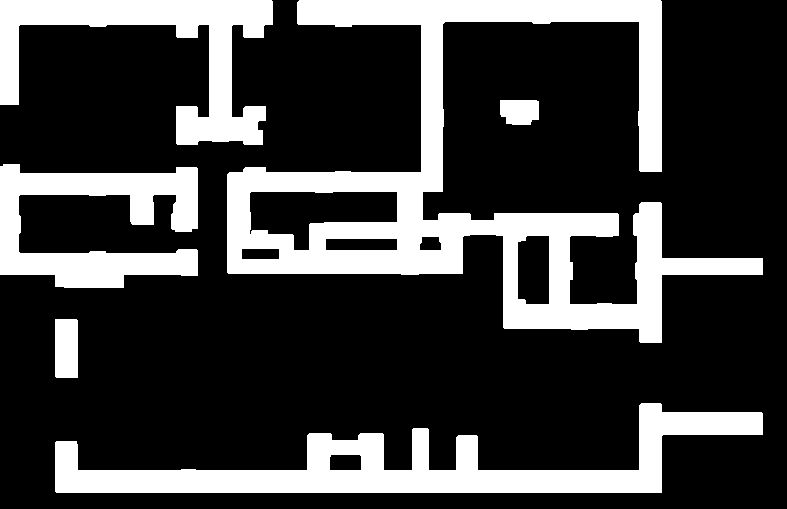
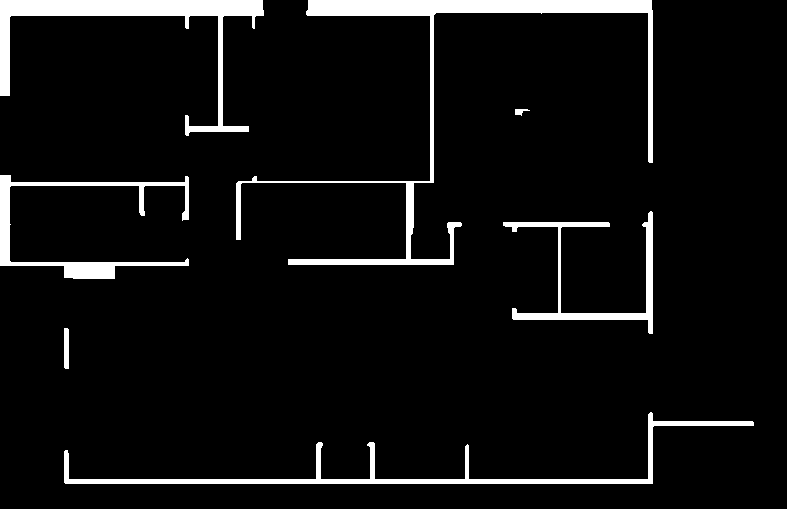
Updated to add vertex functionality

diff --git a/LineExtractor/Python/line.py b/LineExtractor/Python/line.py
@@ -2,6 +2,8 @@ import cv2
 import os
 import numpy as np
 import json
+import random
+import string
 
 # Get the current directory
 current_dir = os.path.dirname(os.path.abspath(__file__))
@@ -51,7 +53,7 @@ def getWalls(image_path, threshold_area, canny_threshold1, canny_threshold2):
 
     ##cv2.floodFill(dilated, mask=None, seedPoint=(int(0), int(0)), newVal=(255))
 
-    # Display the resulting image
+    # Display the resulting image [UNDO TO SEE MID RESULT]
     cv2.imshow('Original Image', image)
     cv2.imshow('Lines along Walls', dilated)
     cv2.imwrite(output_path, dilated)
@@ -71,7 +73,7 @@ def reduction(pathToOutput):
     # Perform erosion
     eroded_image = cv2.erode(img, kernel, iterations=thickness_reduction_factor)
 
-    # Display the eroded image
+    # Display the eroded image [UNDO TO SEE MID RESULT]
     cv2.imshow("Eroded Image", eroded_image)
     cv2.waitKey(0)
     cv2.destroyAllWindows()
@@ -99,7 +101,6 @@ def detect_line_segments(image_path):
     return dimensions
 
 # Call the function to reduce the image to lines and label them
-
 threshold_area = 90
 canny_threshold1 = 10
 canny_threshold2 = 10
@@ -111,13 +112,25 @@ getWalls(image_path, threshold_area, canny_threshold1, canny_threshold2)
 reduction(output_path)
 
 line_segments = detect_line_segments(output_path)
+
+list_of_xcor = []
+list_of_ycor = []
+
 for segment in line_segments:
     x1, y1, x2, y2, length, angle = segment
     print(f"Start Point: ({x1}, {y1}), End Point: ({x2}, {y2}), Length: {length}, Angle: {angle}")
+    list_of_xcor.append(x1)
+    list_of_ycor.append(y1)
 
-vertexName = "tZz4-vWqWF"
+list_of_xcor = [int(x) for x in list_of_xcor]
+list_of_ycor = [int(y) for y in list_of_ycor]
 
-def generateVertex(xcor, ycor, inputLineIDList, vertexName="tZz4-vWqWF"):
+def acquire_id(id_length=8):
+    characters = string.ascii_letters + string.digits
+    id = ''.join(random.choice(characters) for _ in range(id_length))
+    return id
+
+def generateVertex(xcor, ycor, inputLineIDList, vertexName):
     e = {}
     L = []
     verticeName = vertexName
@@ -138,25 +151,18 @@ def generateVertex(xcor, ycor, inputLineIDList, vertexName="tZz4-vWqWF"):
     return vertex
 
 def generate_COLverticesCOL():
-    vertices = {
-        "tZz4-vWqWF": generateVertex(600, 1800, ["line1"]),
-        "t2z4-vWqWF": generateVertex(700, 1800, ["line3"]),
-        # Add more vertices here
-    }
+    individualElement = {}
+    for xcor, ycor in zip(list_of_xcor, list_of_ycor):
+        vertexName = acquire_id()
+        individualElement[vertexName] = generateVertex(xcor, ycor, "", vertexName)
+        
+    return individualElement
 
-    return vertices
-
-xcor = 600
-ycor = 1800
-input_line_id = ["Xo4EUkJ-u"]
-
-##vertex_json = json.dumps({"vertices": {"tZz4-vWqWF": generateVertex(xcor, ycor, input_line_id)}}, indent=4)
-vertices_json = json.dumps({"vertices": generate_COLverticesCOL()}, indent=4)
-
+vertices_json = json.dumps(generate_COLverticesCOL(), indent=4)
 print(vertices_json)
 
-
-def generate_line(id, vertices, height, thickness=20, textureA="bricks", textureB="bricks"):
+{
+"""def generate_line(id, vertices, height, thickness=20, textureA="bricks", textureB="bricks"):
     line = {
         "id": id,
         "type": "wall",
@@ -188,4 +194,5 @@ textureA = "bricks"
 textureB = "bricks"
 
 line_json = json.dumps({line_id: generate_line(line_id, vertices, height)}, indent=4)
-print(line_json)
+print(line_json)"""
+}
